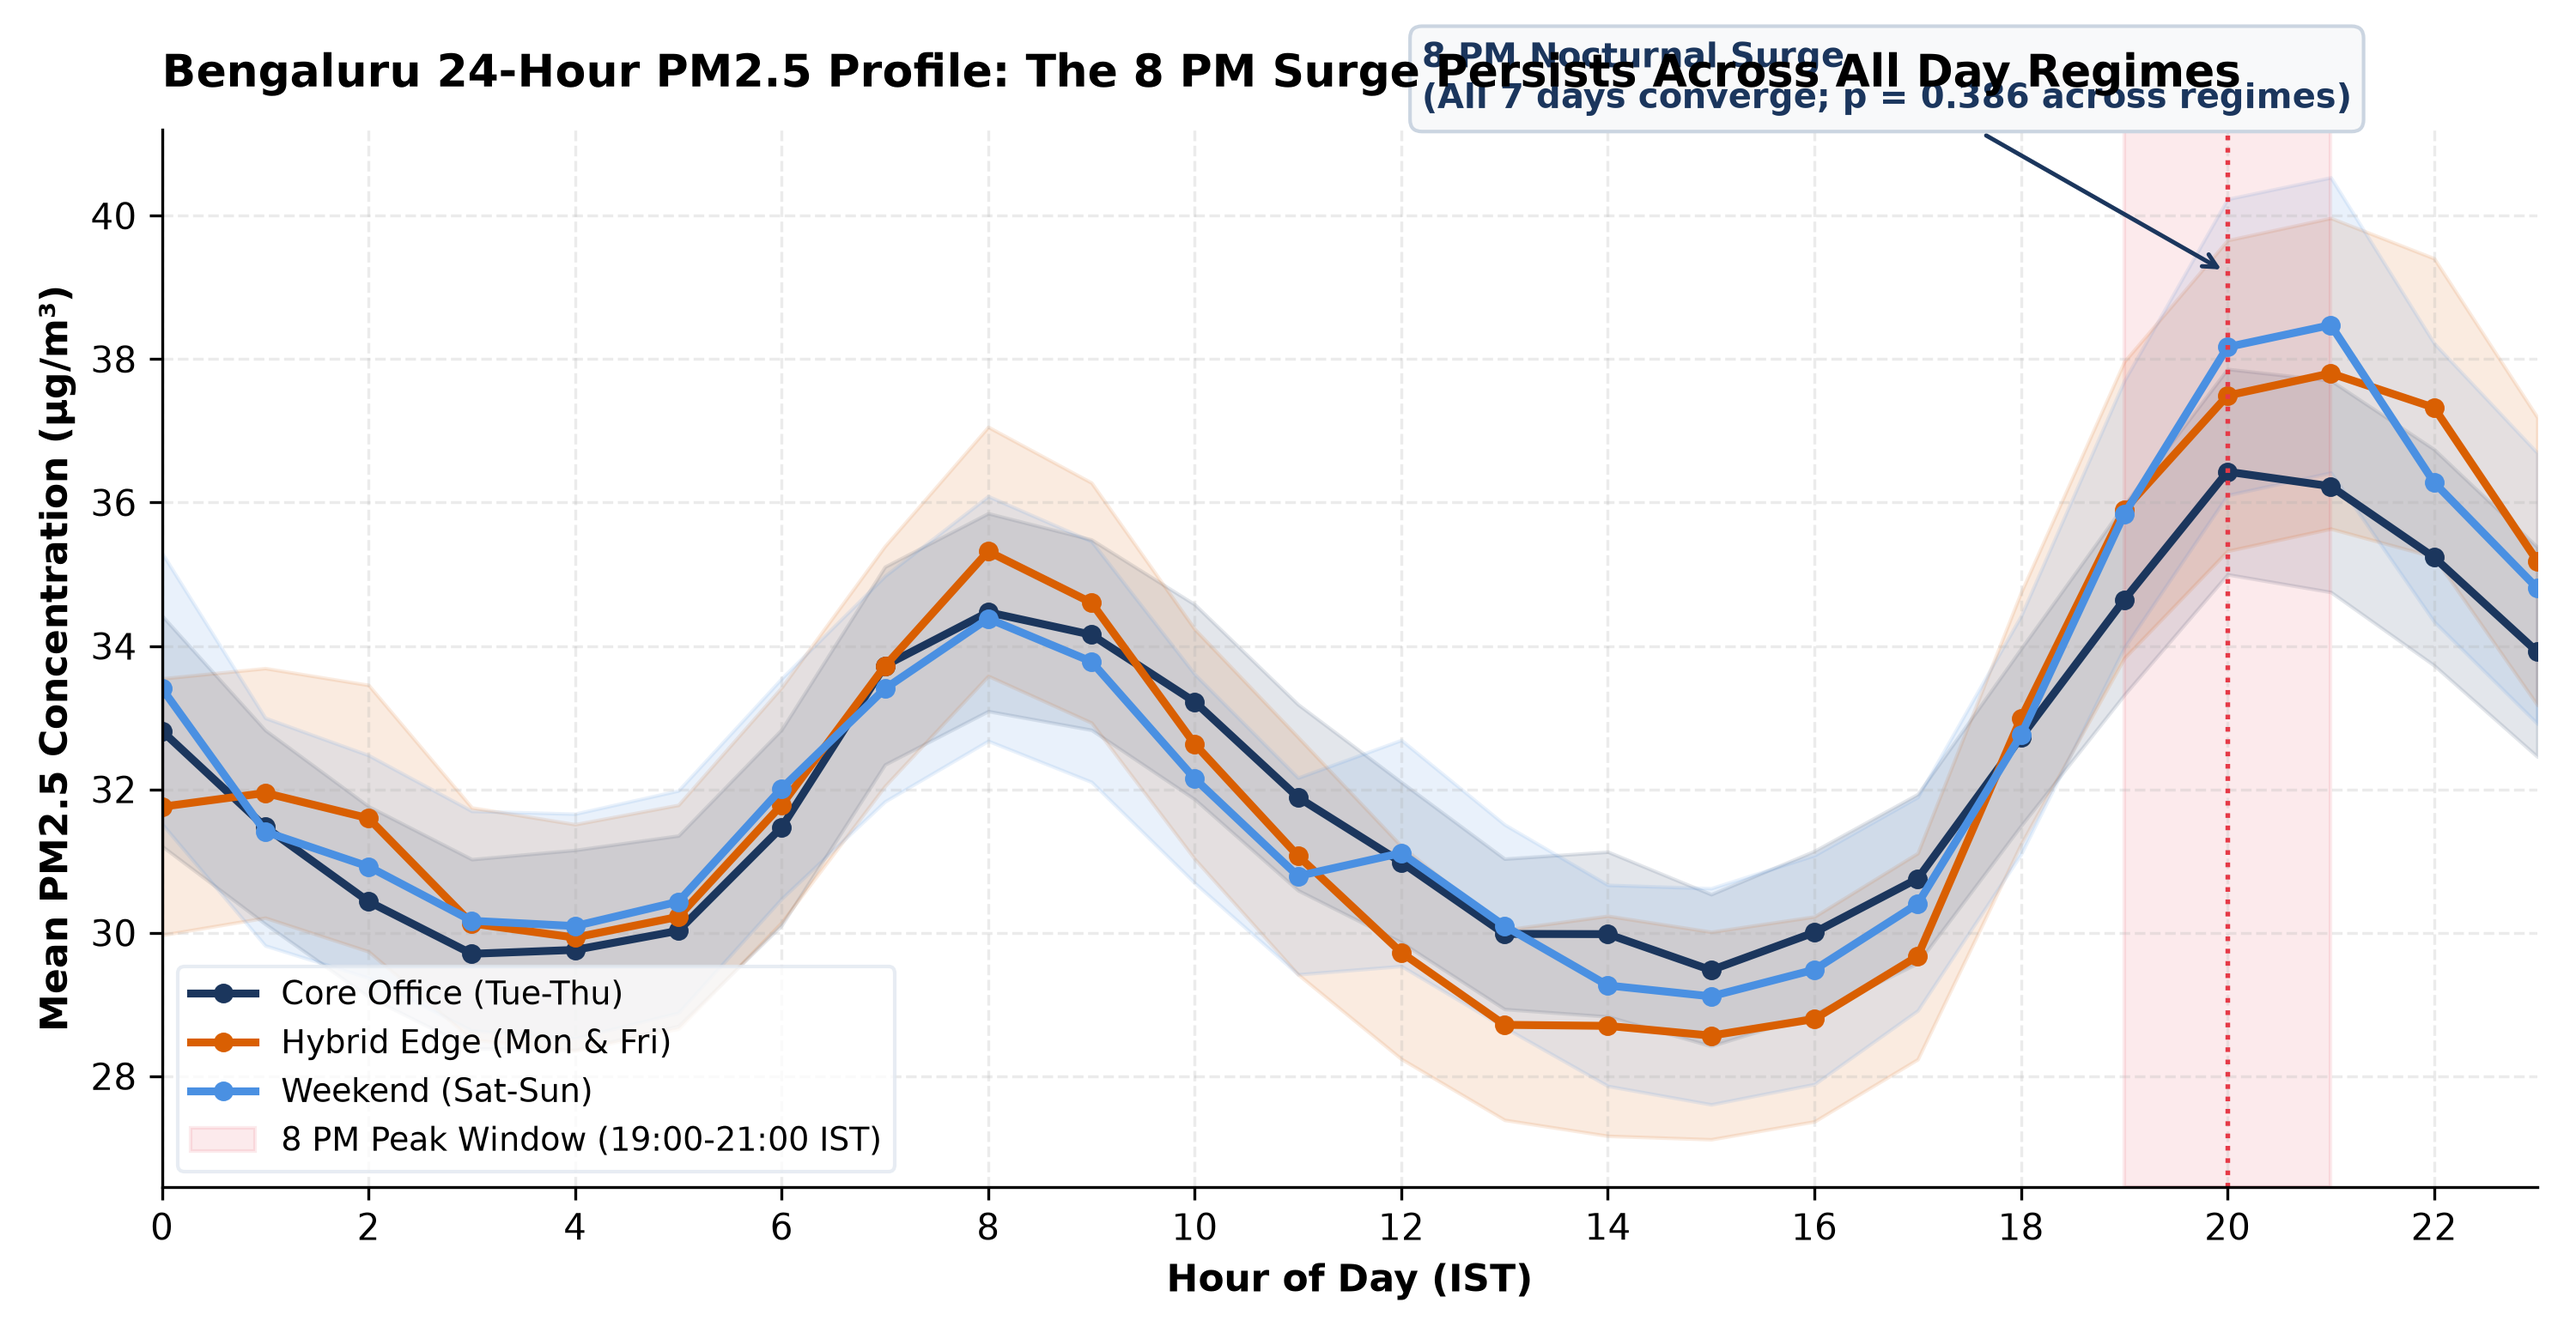
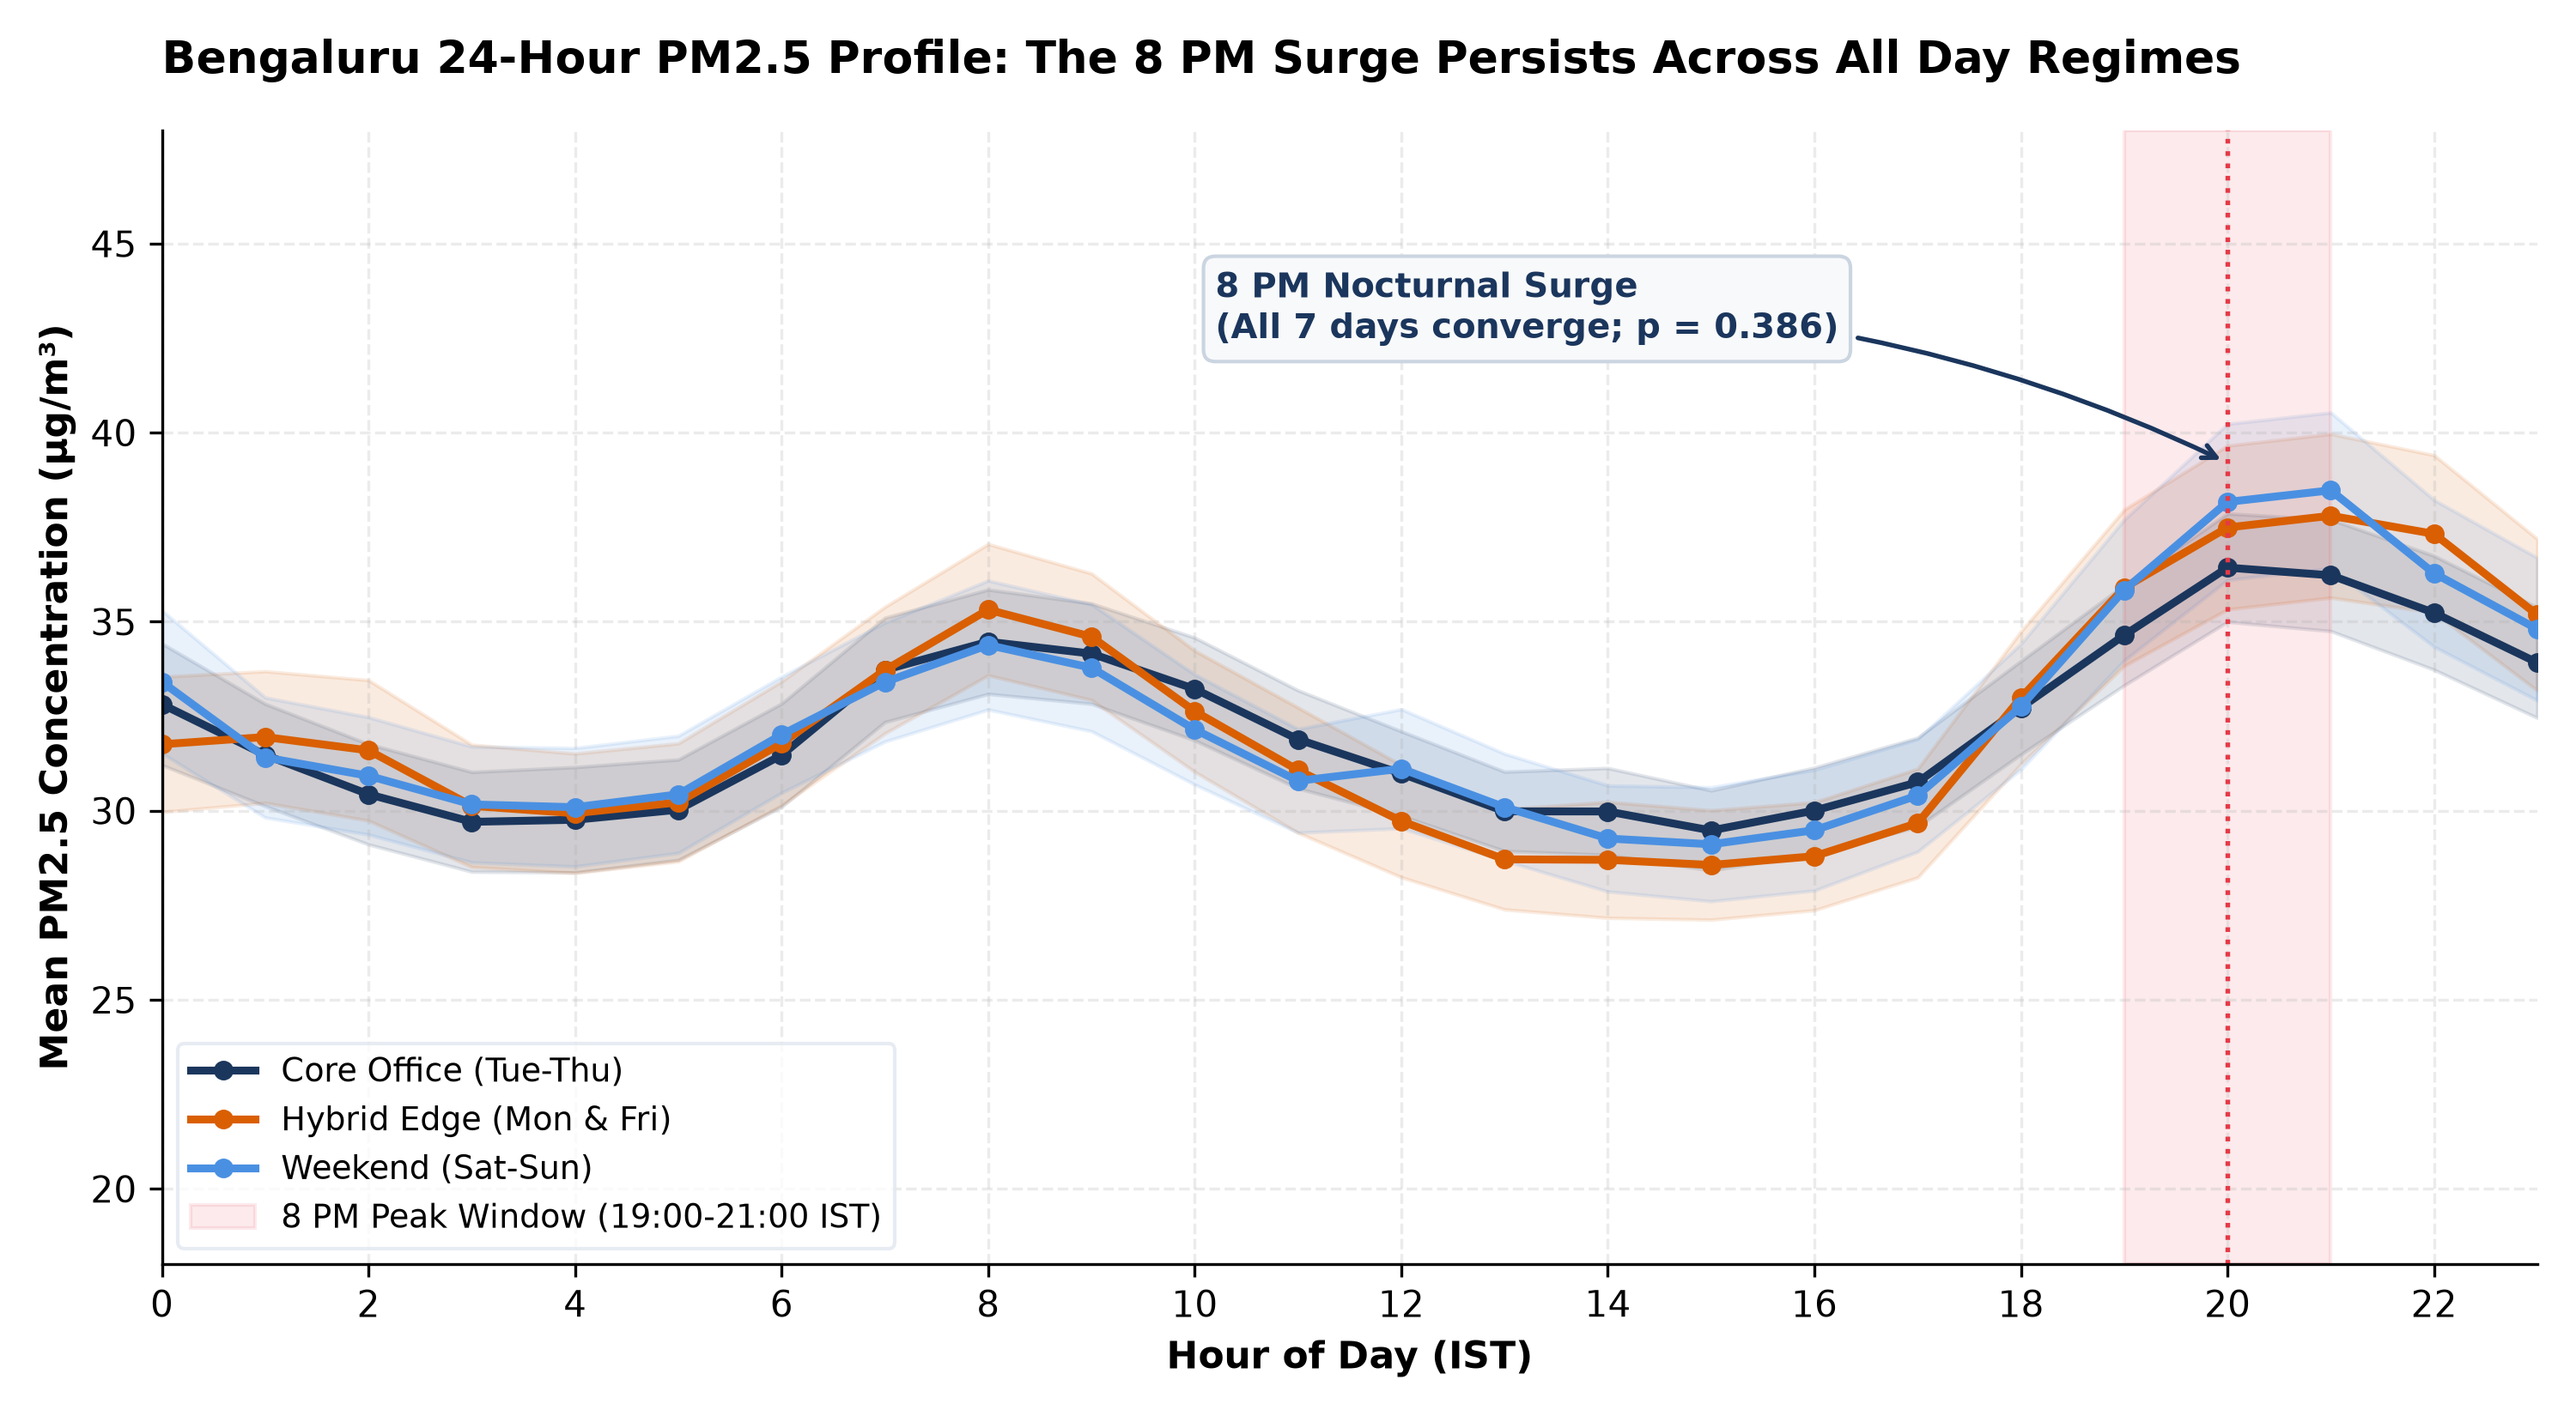
Fix Figure 1 annotation positioning to eliminate title overlap

diff --git a/scripts/phase3_charts.py b/scripts/phase3_charts.py
@@ -1,0 +1,183 @@
+import os
+import numpy as np
+import pandas as pd
+import matplotlib.pyplot as plt
+import seaborn as sns
+
+# Clean, modern publication style (no emojis, high contrast)
+plt.rcParams.update({
+    "figure.dpi": 300,
+    "savefig.dpi": 300,
+    "font.family": "sans-serif",
+    "font.sans-serif": ["DejaVu Sans", "Arial"],
+    "axes.spines.top": False,
+    "axes.spines.right": False,
+    "axes.grid": True,
+    "grid.alpha": 0.25,
+    "grid.linestyle": "--"
+})
+
+os.makedirs("outputs", exist_ok=True)
+df = pd.read_csv("data/processed/bengaluru_8pm_clean.csv")
+pm25 = df[df["parameter"] == "pm25"].copy()
+
+pm25["day_regime"] = np.where(
+    pm25["is_weekend"] == 1, "Weekend (Sat-Sun)",
+    np.where(pm25["weekday_num"].isin([1, 2, 3]), "Core Office (Tue-Thu)", "Hybrid Edge (Mon & Fri)")
+)
+
+# ==============================================================================
+# FIGURE 1: 24-Hour Diurnal Curve by Work-Week Regime
+# ==============================================================================
+fig, ax = plt.subplots(figsize=(10, 5.5))
+palette_f1 = {
+    "Core Office (Tue-Thu)": "#1B365D",
+    "Hybrid Edge (Mon & Fri)": "#D95F02",
+    "Weekend (Sat-Sun)": "#4A90E2"
+}
+
+diurnal = pm25.groupby(["day_regime", "hour_ist"])["value"].agg(["mean", "sem"]).reset_index()
+for regime in ["Core Office (Tue-Thu)", "Hybrid Edge (Mon & Fri)", "Weekend (Sat-Sun)"]:
+    sub = diurnal[diurnal["day_regime"] == regime]
+    ax.plot(sub["hour_ist"], sub["mean"], marker="o", markersize=4.5, linewidth=2.2,
+            label=regime, color=palette_f1[regime])
+    ax.fill_between(sub["hour_ist"], sub["mean"] - 1.96 * sub["sem"], sub["mean"] + 1.96 * sub["sem"],
+                    color=palette_f1[regime], alpha=0.12)
+
+ax.axvspan(19, 21, color="#E63946", alpha=0.10, label="8 PM Peak Window (19:00-21:00 IST)")
+ax.axvline(20, color="#E63946", linestyle=":", linewidth=1.3)
+ax.set_ylim(18, 48)
+
+ax.annotate("8 PM Nocturnal Surge\n(All 7 days converge; p = 0.386)",
+            xy=(20, 39.2), xytext=(10.2, 42.5),
+            arrowprops=dict(arrowstyle="->", color="#1B365D", lw=1.3, connectionstyle="arc3,rad=-0.12"),
+            fontsize=9.5, fontweight="bold", color="#1B365D",
+            bbox=dict(boxstyle="round,pad=0.35", facecolor="#F8F9FA", edgecolor="#CBD5E1"))
+
+ax.set_title("Bengaluru 24-Hour PM2.5 Profile: The 8 PM Surge Persists Across All Day Regimes",
+             fontsize=12.5, fontweight="bold", pad=16, loc="left")
+ax.set_xlabel("Hour of Day (IST)", fontsize=10.5, fontweight="bold")
+ax.set_ylabel("Mean PM2.5 Concentration (µg/m³)", fontsize=10.5, fontweight="bold")
+ax.set_xticks(range(0, 24, 2))
+ax.set_xlim(0, 23)
+ax.legend(frameon=True, facecolor="white", edgecolor="#E2E8F0", fontsize=9, loc="lower left")
+plt.tight_layout()
+plt.savefig("outputs/fig1_diurnal_hybrid_curve.png")
+plt.close()
+
+# ==============================================================================
+# FIGURE 2: Corridor Hotspot Dumbbell Chart (Afternoon vs Evening Peak)
+# ==============================================================================
+st_aft = pm25[pm25["hour_ist"].between(12, 15)].groupby("station_name")["value"].mean()
+st_eve = pm25[pm25["hour_ist"].between(18, 22)].groupby("station_name")["value"].mean()
+st_df = pd.DataFrame({"Afternoon (12-15h)": st_aft, "Evening (18-22h)": st_eve}).dropna()
+st_df["Delta"] = st_df["Evening (18-22h)"] - st_df["Afternoon (12-15h)"]
+st_df = st_df.sort_values("Delta", ascending=True)
+st_df["Short_Name"] = st_df.index.str.replace(", Bengaluru - CPCB", "", regex=False).str.replace(", Bengaluru - KSPCB", "", regex=False)
+
+fig, ax = plt.subplots(figsize=(10, 5.2))
+y_pos = np.arange(len(st_df))
+
+for idx, (_, row) in enumerate(st_df.iterrows()):
+    line_color = "#E63946" if row["Delta"] > 7 else ("#457B9D" if row["Delta"] > 0 else "#6C757D")
+    ax.plot([row["Afternoon (12-15h)"], row["Evening (18-22h)"]], [idx, idx],
+            color=line_color, linewidth=2.8, zorder=2)
+    sign = "+" if row["Delta"] >= 0 else ""
+    ax.text(max(row["Afternoon (12-15h)"], row["Evening (18-22h)"]) + 0.7, idx,
+            f"{sign}{row['Delta']:.2f} µg/m³", va="center", fontsize=9,
+            fontweight="bold" if row["Delta"] > 7 else "normal", color=line_color)
+
+ax.scatter(st_df["Afternoon (12-15h)"], y_pos, color="#64748B", s=75, label="Afternoon Baseline (12:00-15:00)", zorder=3)
+ax.scatter(st_df["Evening (18-22h)"], y_pos, color="#1B365D", s=85, label="Evening Rush Peak (18:00-22:00)", zorder=4)
+
+ax.set_yticks(y_pos)
+ax.set_yticklabels(st_df["Short_Name"], fontsize=10, fontweight="bold")
+ax.set_xlim(18, 55)
+ax.set_xlabel("Mean PM2.5 Concentration (µg/m³)", fontsize=10.5, fontweight="bold")
+ax.set_title("Corridor Hotspots: Hebbal (+9.39) & Silk Board (+8.99) Drive Evening Surge",
+             fontsize=12.5, fontweight="bold", pad=12, loc="left")
+ax.legend(frameon=True, facecolor="white", edgecolor="#E2E8F0", fontsize=9.5, loc="lower right")
+plt.tight_layout()
+plt.savefig("outputs/fig2_corridor_surge_dumbbell.png")
+plt.close()
+
+# ==============================================================================
+# FIGURE 3: Rain Washout Paradox (17:00 - 23:00 IST)
+# ==============================================================================
+eve = pm25[pm25["hour_ist"].between(17, 23)].copy()
+eve["rain_tier"] = np.where(
+    eve["rain"] == 0, "Dry Evening (0 mm)",
+    np.where(eve["rain"] <= 2.5, "Light Rain (0.1 - 2.5 mm)", "Moderate/Heavy Rain (> 2.5 mm)")
+)
+rain_grp = eve.groupby(["rain_tier", "hour_ist"]).agg(
+    mean_pm25=("value", "mean"),
+    sem_pm25=("value", "sem"),
+    n=("value", "count")
+).reset_index()
+rain_grp = rain_grp[rain_grp["n"] >= 15]  # Show well-sampled hours only
+
+fig, ax = plt.subplots(figsize=(9.5, 5))
+palette_f3 = {
+    "Dry Evening (0 mm)": "#D62828",
+    "Light Rain (0.1 - 2.5 mm)": "#2A9D8F",
+    "Moderate/Heavy Rain (> 2.5 mm)": "#1D3557"
+}
+
+for tier in ["Dry Evening (0 mm)", "Light Rain (0.1 - 2.5 mm)", "Moderate/Heavy Rain (> 2.5 mm)"]:
+    sub = rain_grp[rain_grp["rain_tier"] == tier]
+    ax.plot(sub["hour_ist"], sub["mean_pm25"], marker="s", markersize=5.5, linewidth=2.4,
+            label=tier, color=palette_f3[tier])
+    ax.fill_between(sub["hour_ist"], sub["mean_pm25"] - 1.96 * sub["sem_pm25"],
+                    sub["mean_pm25"] + 1.96 * sub["sem_pm25"], color=palette_f3[tier], alpha=0.12)
+
+ax.annotate("8 PM Washout Drop: -51.2%\n(39.92 vs. 19.50 µg/m³; p = 3.8e-193)",
+            xy=(20, 19.5), xytext=(20.3, 28.5),
+            arrowprops=dict(arrowstyle="->", color="#2A9D8F", lw=1.4),
+            fontsize=9.5, fontweight="bold", color="#1D3557",
+            bbox=dict(boxstyle="round,pad=0.35", facecolor="#F8F9FA", edgecolor="#CBD5E1"))
+
+ax.set_title("The Rain Washout Paradox: Wet Scavenging Cuts 8 PM PM2.5 in Half",
+             fontsize=12.5, fontweight="bold", pad=12, loc="left")
+ax.set_xlabel("Evening Hour (IST)", fontsize=10.5, fontweight="bold")
+ax.set_ylabel("Mean PM2.5 Concentration (µg/m³)", fontsize=10.5, fontweight="bold")
+ax.set_xticks(range(17, 24))
+ax.set_xticklabels([f"{h}:00" for h in range(17, 24)])
+ax.set_ylim(10, 45)
+ax.legend(frameon=True, facecolor="white", edgecolor="#E2E8F0", fontsize=9.5, loc="upper left")
+plt.tight_layout()
+plt.savefig("outputs/fig3_rain_washout_paradox.png")
+plt.close()
+
+# ==============================================================================
+# FIGURE 4: Exodus Evening vs Regular Weekday Evening (18:00 - 22:00 IST)
+# ==============================================================================
+wd_eve = pm25[(pm25["hour_ist"].between(18, 22)) & (pm25["is_weekend"] == 0)].copy()
+wd_eve["Regime"] = np.where(
+    wd_eve["is_exodus_evening"] == 1,
+    "Pre-Holiday / Long-Weekend\nExodus Evening",
+    "Regular Working\nWeekday Evening"
+)
+
+fig, ax = plt.subplots(figsize=(8.5, 5))
+sns.boxplot(
+    data=wd_eve, x="Regime", y="value",
+    order=["Regular Working\nWeekday Evening", "Pre-Holiday / Long-Weekend\nExodus Evening"],
+    palette=["#457B9D", "#E76F51"], width=0.42, showfliers=False, ax=ax
+)
+
+medians = wd_eve.groupby("Regime")["value"].median()
+for idx, label in enumerate(["Regular Working\nWeekday Evening", "Pre-Holiday / Long-Weekend\nExodus Evening"]):
+    med_val = medians[label]
+    ax.text(idx, med_val + 1.5, f"Median: {med_val:.2f} µg/m³",
+            ha="center", va="bottom", fontsize=10, fontweight="bold", color="#1E293B",
+            bbox=dict(boxstyle="round,pad=0.25", facecolor="white", edgecolor="#CBD5E1", alpha=0.9))
+
+ax.set_title("Festival & Long-Weekend Exodus Evenings Amplify PM2.5 by +25.8% (p = 4.2e-12)",
+             fontsize=11.5, fontweight="bold", pad=12, loc="left")
+ax.set_xlabel("")
+ax.set_ylabel("Evening PM2.5 Concentration (18:00-22:00 IST, µg/m³)", fontsize=10, fontweight="bold")
+plt.tight_layout()
+plt.savefig("outputs/fig4_exodus_evening_impact.png")
+plt.close()
+
+print("All 4 publication-grade charts saved successfully inside outputs/!")
